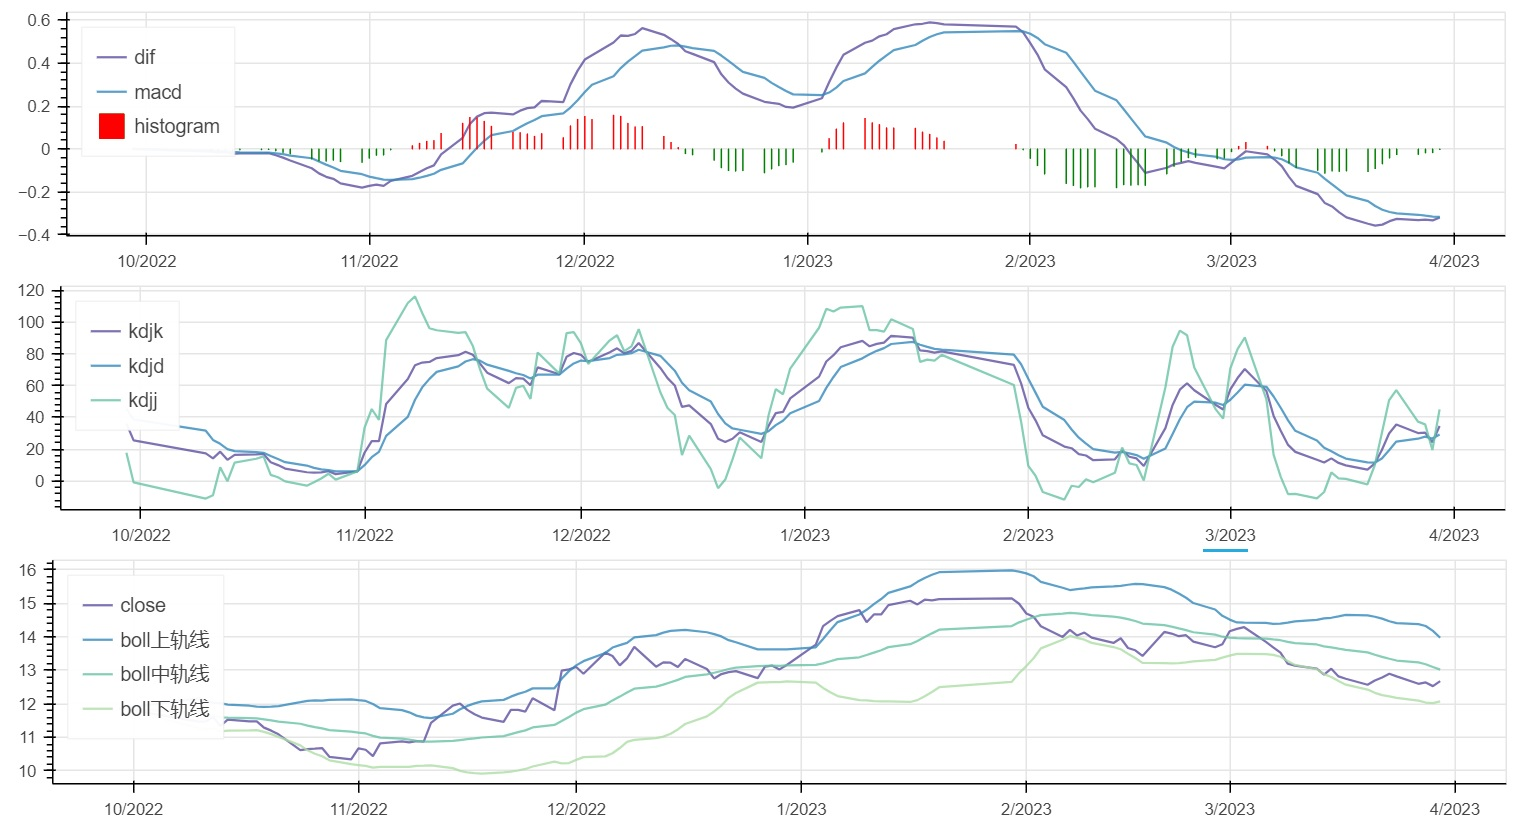
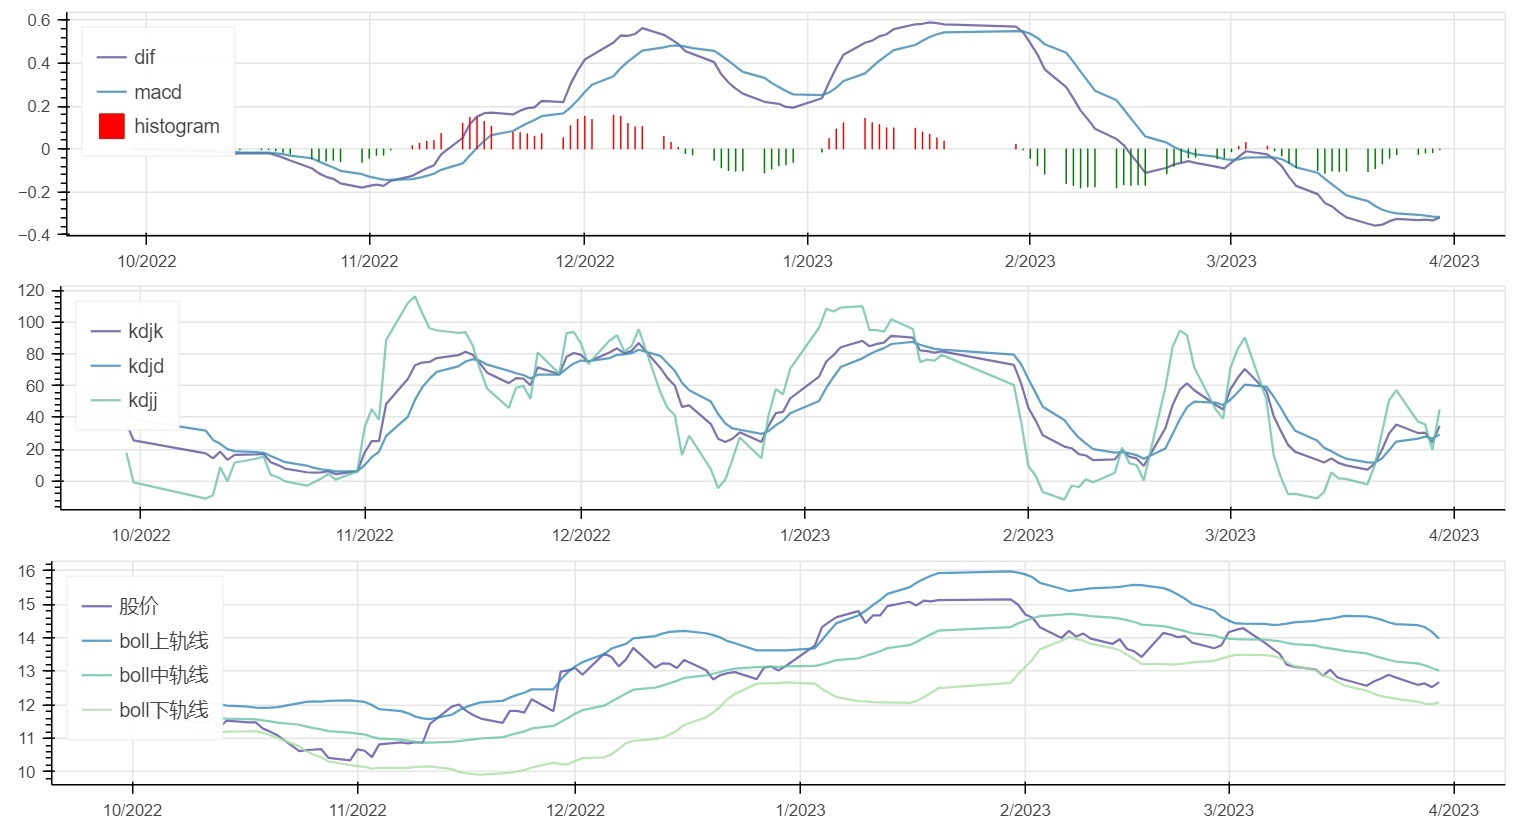
指标优化

diff --git a/libs/tablestructure.py b/libs/tablestructure.py
@@ -268,7 +268,10 @@ TABLE_CN_STOCK_KLINE_PATTERN['columns'].update(STOCK_KLINE_PATTERN_DATA['columns
 def get_field_cn(key, table):
     f = table.get('columns').get(key)
     if f is None:
-        return key
+        if key == 'close':
+            return '股价'
+        else:
+            return key
     return f.get('cn')
 
 
